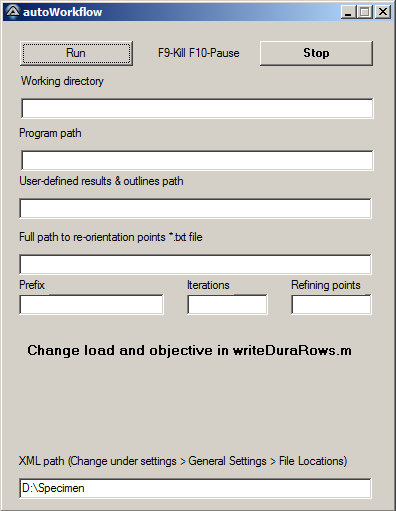
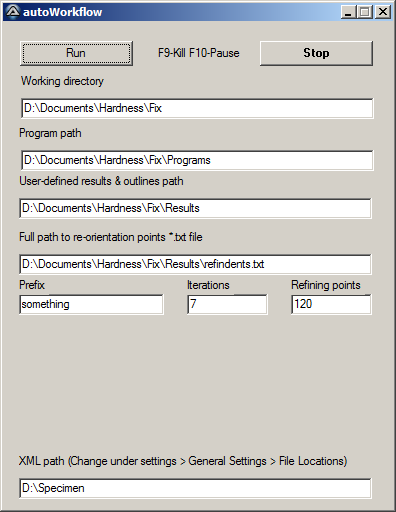
Corrected additional pnts bug, r/w loads & objectives in setup and refine, fixed open outline error, fixed plotting error/cropping, modified writeDuraRows & text in autoIT GUI window

Changed region(s): [[0.0303, 0.1468, 0.9394, 0.6164], [0.0, 0.8806, 1.0, 1.0], [0.0606, 0.6751, 0.8788, 0.7045]]

diff --git a/MapSetup.m b/MapSetup.m
@@ -28,6 +28,10 @@
 %   Requires a local (or domain) outline in the same format as the
 %   perimeter. This outline will be meshed.
 %   
+%   OPTIONAL additional hardness points in a .txt format, whitespace
+%   delimited, one indent per row in the form of x position y position
+%   hardness in mm & N/mm^2. If this file is not found, then it will not
+%   be processed.
 %   See below for other script variables/parameters.
 %
 %   Requires writeDuraRows.m, clipper.mexw64, xml2struct.m, 
@@ -42,7 +46,7 @@
 %   See also distmesh2D
 %   
 %   Copyright 2015 M. J. Roy
-%   $Revision: 1.0$  $Date: 2015/10/30$
+%   $Revision: 1.1$  $Date: 2016/07/08$
 
 close all
 clear all
@@ -51,14 +55,16 @@ clc
 %%%%%%%%%%%%%%%%%%%%%%%%%%%%%%%%%%%%%%%%%%%%%%%%%%%%%%%%%%%%%%%%%%%%%%%%%%%
 %%Change script variables here
 distFactor=3; %default
-seed=2; %mm, or set seed=int16(number of seeds)
-Prefix='DemoReprocessor';
+Load='0.2'; %load in kilograms
+Obj='40x'; %objective to use
+seed=1; %mm, or set seed=int16(number of seeds)
+Prefix='AlAlloy';
 speOut=strcat('Programs\',Prefix); %path & prefix of new spe
-RefIndent='Results_Outlines\TryReorient.spe';
-PeriOutline='Results_Outlines\OverviewOutline_Conv.txt';
-DomainOutline='Results_Outlines\EvaluationOutline_Conv.txt';
-AddPoints='Results_Outlines\Already_done.txt';
-AddPointsLoad=1;
+RefIndent='Results_Outlines\RefLoc.spe';
+PeriOutline='Results_Outlines\Overview_Outline.txt';
+DomainOutline='Results_Outlines\Evaluation_Outline.txt';
+AddPoints='Results_Outlines\Already_done.txt'; 
+AddPointsLoad=1; %Load that was used to perform additional points
 demo=0; %make equal to 1 or true to see indent sequence
 doOver=1; %if false, it will only load the contents of <Prefix>_setup.mat
 %%%%%%%%%%%%%%%%%%%%%%%%%%%%%%%%%%%%%%%%%%%%%%%%%%%%%%%%%%%%%%%%%%%%%%%%%%%
@@ -66,15 +72,14 @@ doOver=1; %if false, it will only load the contents of <Prefix>_setup.mat
 if doOver && exist(strcat(Prefix,'_setup.mat'),'file')==2
     delete(strcat(Prefix,'_setup.mat'));
 end
-
+ap=false;%additional points is false until flipped true
 if exist(strcat(Prefix,'_setup.mat'),'file')~=2
 
-    %read in profiles
-    P_outline=dlmread(PeriOutline);
-    D_outline=dlmread(DomainOutline);
+    %read in profiles & connect them
+    P_outline=dlmread(PeriOutline); P_outline(end+1,:)=P_outline(1,:);
+    D_outline=dlmread(DomainOutline); D_outline(end+1,:)=D_outline(1,:);
     
     %check for additional points
-    ap=false;%flag for subsequent analysis
     if exist(AddPoints,'file')==2 %if a valid file is found
         fprintf('Accounting for existing indents beyond reference ...\n');
         ap=true; 
@@ -136,11 +141,14 @@ if exist(strcat(Prefix,'_setup.mat'),'file')~=2
     %have to convert to int64 for clipper, use an arbitrary scaling factor
     scale=2^15;
     %offset the outline by the largest indent diagonal in the reference
-    %points
+    %points, correct for differences in load, for example reference indents
+    %may have been performed with a higher load
     if ~ap %no additional points
-        Offset=max(RefIndentDiag.*distFactor);
+        OffsetHV=min(RefIndentHV);
+        Offset=distFactor*(sqrt(1.8544*str2double(Load)/OffsetHV));
     else
-        Offset=max([RefIndentDiag;AddPntsDiag].*distFactor);
+        OffsetHV=min([RefIndentHV;AddPntsHV]);
+        Offset=distFactor*(sqrt(1.8544*str2double(Load)/OffsetHV));
     end
     Inpol.x=int64(D_outline(:,1)*scale); Inpol.y=int64(D_outline(:,2)*scale);
     Outpol=clipper(Inpol,-Offset*scale,1);
@@ -303,4 +311,6 @@ end %if the setup file exists and redo isn't true
 
 %write a programme
 writeDuraRows(p(s_pnt,:),...
-    strcat(speOut,'.spe'));
+    strcat(speOut,'.spe'),...
+    Load,...
+    Obj);

diff --git a/MapRefine.m b/MapRefine.m
@@ -36,7 +36,7 @@
 %   See also export_fig
 %   
 %   Copyright 2015-2016 M. J. Roy
-%   $Revision: 1.0$  $Date: 2016/03/13$
+%   $Revision: 1.1$  $Date: 2016/07/08$
 
 close all
 clear all
@@ -45,12 +45,12 @@ clc
 %%%%%%%%%%%%%%%%%%%%%%%%%%%%%%%%%%%%%%%%%%%%%%%%%%%%%%%%%%%%%%%%%%%%%%%%%%%
 %%Change script variables here
 NumRefiningPnts=150;
-Prefix='ICAM13M2';
+Prefix='AlAlloy';
 speOut=strcat('Programs\',Prefix); %local path & prefix of new spe
 % LastRunWorkspace='SomeSampleName_meshed_setup.mat';
-LastRunWorkspace='SomeSampleName_1_setup.mat';
+LastRunWorkspace='AlAlloy_setup.mat';
 % LastRunResults='Results_Outlines\SomeSampleName_meshed - 5.11.2015 20h7min37s.spe';
-LastRunResults='Results_Outlines\SomeSampleName_1 - 13.11.2015 18h21min47s.spe';
+LastRunResults='Results_Outlines\AlAlloy - 14.3.2016 16h45min25s.spe';
 RefLoc='Results_Outlines\Relocation_1.txt'; %change to valid path/file name accordingly.
 debug=0; %set to be true to highlight regions that are being considered for remapping.
 %%%%%%%%%%%%%%%%%%%%%%%%%%%%%%%%%%%%%%%%%%%%%%%%%%%%%%%%%%%%%%%%%%%%%%%%%%%
@@ -138,7 +138,8 @@ for j=1:length(Results.Specimen.Row.Point)
     LastRunDiag(j,1)=str2double...
         (Results.Specimen.Row.Point{j}.Diag.Text);
 end
-Method=Results.Specimen.Row.Point{1}.Method.Text; %for caxis label
+Method=Results.Specimen.Row.Point{1}.Method.Text; %for caxis label & writeDuraRows
+ObjectiveString=Results.Specimen.Row.Point{1}.Objective.Text; %for writeDuraRows
 if Moved %then translate everything to the new coordinate system
     pPrime=R*p'+repmat(T,1,size(p,1));
     p=pPrime'; 
@@ -431,7 +432,9 @@ else
     iterations=iterations+1;
 end
 writeDuraRows(p(new_s_pnt+os_pnt,:),...
-    strcat(speOut,'_',num2str(iterations),'.spe'));
+    strcat(speOut,'_',num2str(iterations),'.spe'),...
+    Method,...
+    ObjectiveString);
 
 %write a new workspace, dealing with multiplicity via cells
 s_pnt={s_pnt new_s_pnt};
@@ -458,6 +461,6 @@ if exist('export_fig','file')==2
     else
         figure(1);
     end
-    axis([min(xOff) max(xOff) min(yOff) max(yOff)]);
+    axis([min(xOff)*0.95 max(xOff)*1.05 min(yOff)*0.95 max(yOff)*1.05]);
     export_fig(sprintf('Output%d.png',iterations-1),'-a2','-m3')
 end

diff --git a/MapRefineAuto.m b/MapRefineAuto.m
@@ -36,7 +36,7 @@
 %   See also export_fig
 %   
 %   Copyright 2015-2016 M. J. Roy
-%   $Revision: 1.0$  $Date: 2016/03/13$
+%   $Revision: 1.1$  $Date: 2016/07/08$
 
 close all
 clear all
@@ -128,7 +128,8 @@ for j=1:length(Results.Specimen.Row.Point)
     LastRunDiag(j,1)=str2double...
         (Results.Specimen.Row.Point{j}.Diag.Text);
 end
-Method=Results.Specimen.Row.Point{1}.Method.Text; %for caxis label
+Method=Results.Specimen.Row.Point{1}.Method.Text; %for caxis label & writeDuraRows
+ObjectiveString=Results.Specimen.Row.Point{1}.Objective.Text; %for writeDuraRows
 if Moved %then translate everything to the new coordinate system
     pPrime=R*p'+repmat(T,1,size(p,1));
     p=pPrime'; 
@@ -421,7 +422,9 @@ else
     iterations=iterations+1;
 end
 writeDuraRows(p(new_s_pnt+os_pnt,:),...
-    strcat(speOut,'_',num2str(iterations),'.spe'));
+    strcat(speOut,'_',num2str(iterations),'.spe'),...
+    Method,...
+    ObjectiveString);
 
 %write a new workspace, dealing with multiplicity via cells
 s_pnt={s_pnt new_s_pnt};
@@ -453,6 +456,6 @@ if exist('export_fig','file')==2
     else
         figure(1);
     end
-    axis([min(xOff) max(xOff) min(yOff) max(yOff)]);
+    axis([min(xOff)*0.95 max(xOff)*1.05 min(yOff)*0.95 max(yOff)*1.05]);
     export_fig(sprintf('Output%d.png',iterations-1),'-a2','-m3')
 end

diff --git a/writeDuraRows.m b/writeDuraRows.m
@@ -10,7 +10,7 @@
 %
 %   
 %   Copyright 2015 M. J. Roy
-%   $Revision: 1.0$  $Date: 2015/10/30$
+%   $Revision: 1.1$  $Date: 2016/07/08$
 
 function writeDuraRows(varargin)
 if length(varargin)<2 || length(varargin)>5
@@ -21,6 +21,12 @@ p=varargin{1};
 fname=varargin{2};
 if length(varargin)>2
     HVstr=varargin{3};
+    %check if there's a decimal in the string, if there is, convert to
+    %comma
+    [lead,trail]=strtok(HVstr,'.');
+    if ~isempty(trail)
+        HVstr=strcat(lead,',',trail(2:end));
+    end
 else
     HVstr='HV 1';
 end

diff --git a/README.MD b/README.MD
@@ -1,3 +1,5 @@
+[![License: GPL v3](https://img.shields.io/badge/License-GPL%20v3-blue.svg)](http://www.gnu.org/licenses/gpl-3.0) [![DOI](https://zenodo.org/badge/doi/10.5281/zenodo.54761.svg)](http://dx.doi.org/10.5281/zenodo.54761) 
+
 # HardnessMap 
 This set of scripts and functions meant to provide utilities for performing and visualizing hardness maps, predominantly for automated hardness testers using MATLAB. The contained code is meant for extending the capabilities of the Struers DuraScan series of automated hardness testers, but can be extended to operate on any automated hardness tester which has a CNC stage.
 
@@ -7,9 +9,6 @@ After this initial map is submitted and completed by the hardness tester, the re
 
 This is useful for determining boundaries/regions of relatively high hardness compared to their surroundings as opposed to using a fixed indent density. This includes, but is not limited to welds, forgings and fracture specimens.
 
-[![License: GPL v3](https://img.shields.io/badge/License-GPL%20v3-blue.svg)](http://www.gnu.org/licenses/gpl-3.0) [![DOI](https://zenodo.org/badge/doi/10.5281/zenodo.54761.svg)](http://dx.doi.org/10.5281/zenodo.54761) 
-
-
 # Main Utilities
 There are two main scrips to generate/refine maps, `MapSetup.m` and `MapRefine.m`, and a third `MapShow.m` for visualisation. Note that `MapShow.m` is meant for singular/unrefined maps as generated by using `MapSetup.m`. `MapRefine.m` contains all of the elements of `MapShow.m`.
 
@@ -17,20 +16,22 @@ There are two main scrips to generate/refine maps, `MapSetup.m` and `MapRefine.m
 There are 11 parameters required for setting up a map, which are defined at the beginning of the script:
 ~~~matlab
 distFactor=3; %default
-seed=2; %mm, or set seed=int16(number of seeds)
-Prefix='MyAnalysis';
-speOut=strcat('Programs\',Prefix); %path & prefix of new file
-RefIndent='Results_Outlines\TryReorient.spe';
-PeriOutline='Results_Outlines\OverviewOutline_Conv.txt';
-DomainOutline='Results_Outlines\EvaluationOutline_Conv.txt';
-AddPoints='Results_Outlines\Already_done.txt';
-AddPointsLoad=1;
+Load='0.2'; %load in kilograms
+Obj='40x'; %objective to use
+seed=1; %mm, or set seed=int16(number of seeds)
+Prefix='AlAlloy';
+speOut=strcat('Programs\',Prefix); %path & prefix of new spe
+RefIndent='Results_Outlines\RefLoc.spe';
+PeriOutline='Results_Outlines\Overview_Outline.txt';
+DomainOutline='Results_Outlines\Evaluation_Outline.txt';
+AddPoints='Results_Outlines\Already_done.txt'; 
+AddPointsLoad=1; %Load that was used to perform additional points
 demo=0; %make equal to 1 or true to see indent sequence
 doOver=1; %if false, it will only load the contents of <Prefix>_setup.mat
 ~~~
-The `distFactor` parameter corresponds to the ISO/ASTM definition for minimum indent spacing, usually in the range of 2.5-7 times the largest indent. The `seed` parameter can either be the physical distance between seeds in mm along the perimeter of the domain to be mapped, or can be a set number of seeds (passed as an `int16` type). `Prefix` is merely a unique identifier to describe the analysis, `speOut` is the relative path and name where the program to be interpreted by the hardness tester will be written. `RefIndent` is the location of the results file containing the reference indents. `PeriOutline` is a text file containing whitespace delimited x,y pairs, one point per line, which describes a domain to be tracked along with the map; for example, the outline of the overall specimen. `DomainOutline` points to the actual outline to meshed/mapped. `AddPoints` and `AddPoints` refers to the location and load which any additional, pre-existing indents have been performed which may lie in the area intended for mapping. The format for this file is `x y hardness value`, whitespace delimited, one indent per line. The `demo` parameter if true will show the sequence with which the indents will be performed; this is *very slow for large maps*. The `doOver` parameter if true, will bypass meshing and load a pre-existing mesh if it exists.
+The `distFactor` parameter corresponds to the ISO/ASTM definition for minimum indent spacing, usually in the range of 2.5-7 times the largest indent. `Load` is the load in kg that will be used, and `Obj` is the objective. The `seed` parameter can either be the physical distance between seeds in mm along the perimeter of the domain to be mapped, or can be a set number of seeds (passed as an `int16` type). `Prefix` is merely a unique identifier to describe the analysis, `speOut` is the relative path and name where the program to be interpreted by the hardness tester will be written. `RefIndent` is the location of the results file containing the reference indents. `PeriOutline` is a text file containing whitespace delimited x,y pairs, one point per line, which describes a domain to be tracked along with the map; for example, the outline of the overall specimen. `DomainOutline` points to the actual outline to meshed/mapped. `AddPoints` and `AddPoints` refers to the location and load which any additional, pre-existing indents have been performed which may lie in the area intended for mapping. The format for this file is `x y hardness value`, whitespace delimited, one indent per line, which is complimented by the `AddPointsLoad` parameter which tells the program at what load the indents were performed. The `demo` parameter if true will show the sequence with which the indents will be performed; this is *very slow for large maps*. The `doOver` parameter if true, will bypass meshing and load a pre-existing mesh if it exists.
 
-Changing the load with which to indent is accomplished via either changing an argument in `writeDuraRows.m` or by manually modifying the parameters in the hardness tester control software.
+Changing the load with which to indent (along with other measurement characteristics) is possible by manually modifying the parameters in the hardness tester control software *after* `MapSetup.m` has run and the resulting program loaded.
 
 **Note that all input files for this script must use the same coordinate system.**
 
